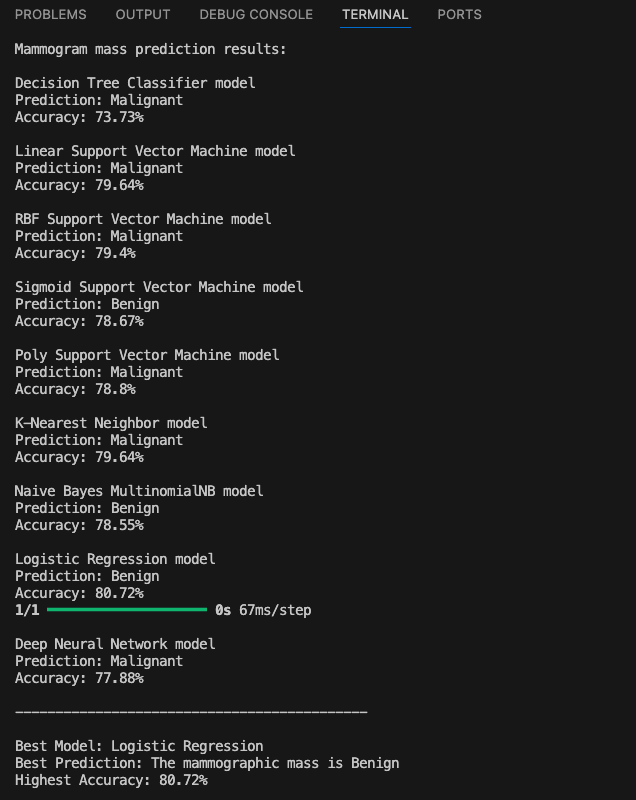
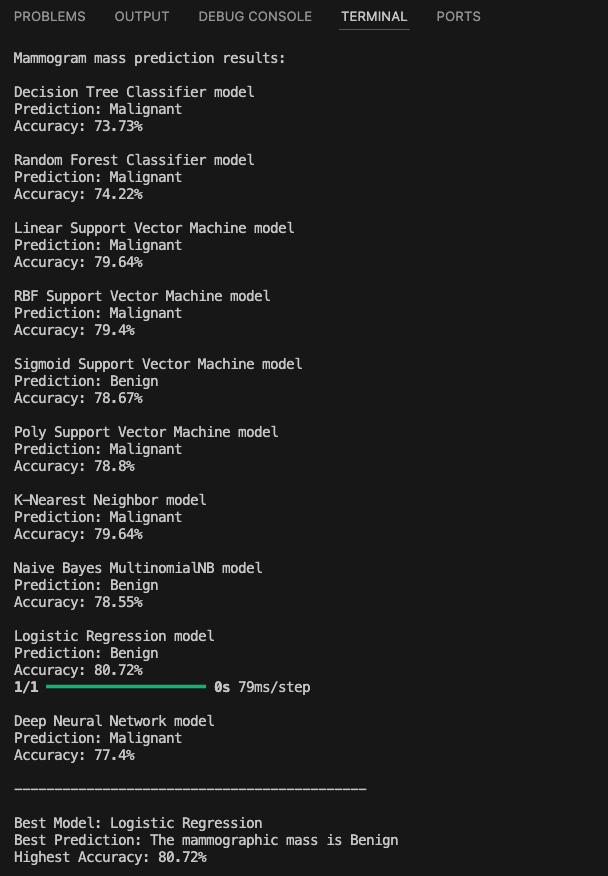
Adding the random tree classifier model to the mix

Changed region(s): [[0.0, 0.0, 0.6562, 1.0], [0.5312, 0.0, 0.6562, 0.0312], [0.6875, 0.0, 0.7812, 0.0312]]

diff --git a/main.py b/main.py
@@ -1,8 +1,8 @@
 import pandas as pd
 import numpy as np
 from sklearn.model_selection import train_test_split
-from sklearn.preprocessing import StandardScaler, MinMaxScaler
 from sklearn.tree import DecisionTreeClassifier
+from sklearn.ensemble import RandomForestClassifier
 from sklearn.model_selection import cross_val_score
 from sklearn import svm
 from sklearn.neighbors import KNeighborsClassifier
@@ -16,6 +16,7 @@ ACCURACY_SCORE = {}
 PREDICTIONS = {}
 MODELS = {
     'dt': 'Decision Tree Classifier',
+    'rf': 'Random Forest Classifier',
     'svml': 'Linear Support Vector Machine',
     'svmr': 'RBF Support Vector Machine',
     'svms': 'Sigmoid Support Vector Machine',
@@ -51,6 +52,16 @@ def decisionTreeClassifierModel():
     dt_clf = DecisionTreeClassifier(criterion='entropy')
     dt_accuracy_score = crossValScore(dt_clf, all_features_scaled)
     mammogram_predictor(dt_clf, model_key, dt_accuracy_score)
+
+'''
+Random Forest Classifier
+Create a random forest classifier and fit it to the training data
+'''
+def RandomForestClassifierModel():
+    model_key = 'rf'
+    rf_clf = RandomForestClassifier(n_estimators=10, random_state=1)
+    rf_accuracy_score = crossValScore(rf_clf, all_features_scaled)
+    mammogram_predictor(rf_clf, model_key, rf_accuracy_score)
     
 '''
 Support Vector Machine (SVM)
@@ -177,6 +188,7 @@ def mammogram_predictor(model, key, accuracy, nb=False):
 def main():
     print('\nMammogram mass prediction results:')
     decisionTreeClassifierModel()
+    RandomForestClassifierModel()
     supportVectorMachineLinearModel()
     supportVectorMachineRbfModel()
     supportVectorMachineSigmoidModel()
